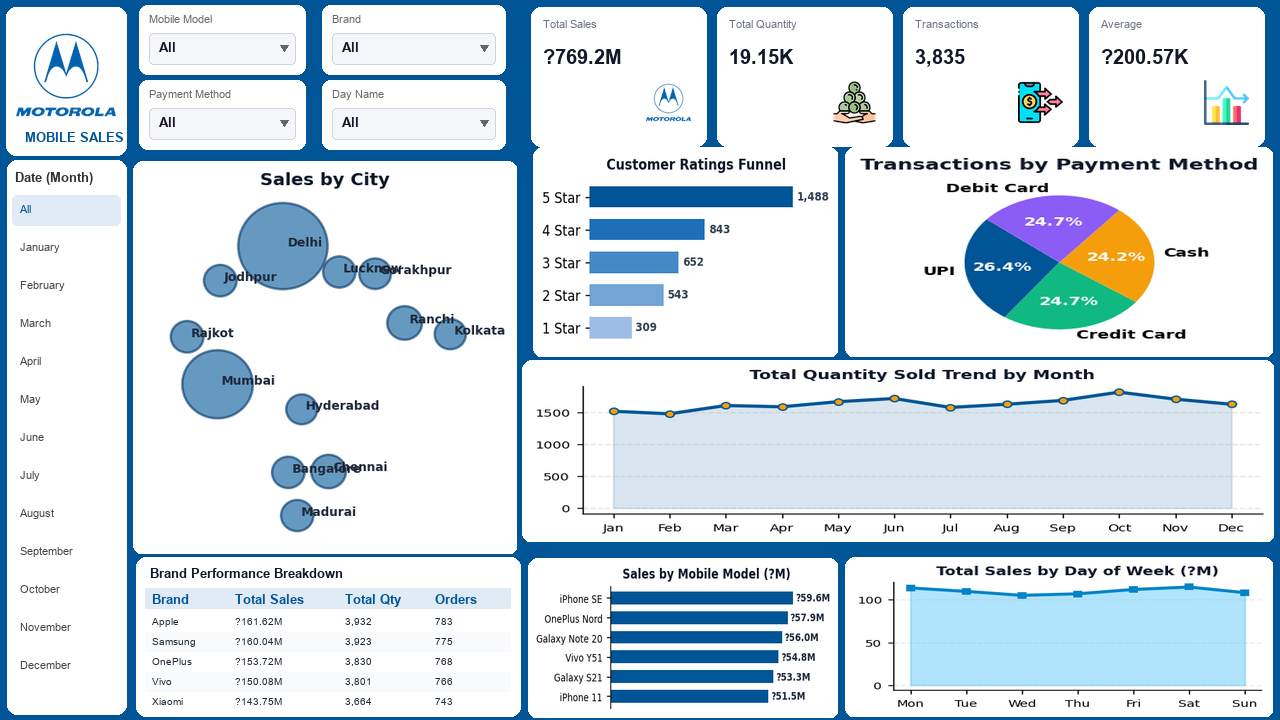
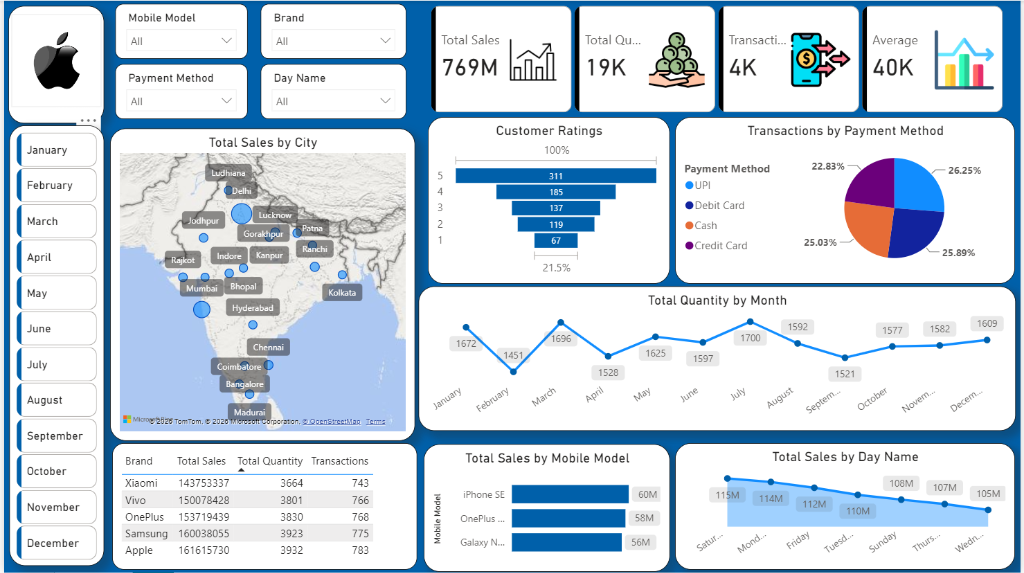
docs: replace dashboard screenshots with actual Power BI visuals and update README

diff --git a/README.md b/README.md
@@ -10,15 +10,15 @@
 
 ---
 
-## 🖥 Dashboard Preview
+## 🖥 Dashboard Overview (Full Report)
 
-![Mobile Sales Power BI Dashboard](assets/dashboard_overview.png)
+![Mobile Sales Power BI Dashboard - Full View](assets/dashboard_overview.png)
 
 ---
 
 ## 📌 Executive Summary & Key KPIs
 
-![KPI Metrics](assets/kpi_cards.png)
+![Executive KPI Cards](assets/kpi_cards.png)
 
 Across **3,835 transactions** recorded between **October 2021 and 2024**:
 
@@ -51,9 +51,11 @@ Across **3,835 transactions** recorded between **October 2021 and 2024**:
 
 ---
 
-## 📊 Dashboard Visualizations & Architecture
+## 📊 Dashboard Visualizations & Dynamic Cross-Filtering
 
-![Visual Analytics](assets/dashboard_visuals.png)
+![Interactive Visual Analytics & Monthly Cross-Filtering](assets/dashboard_visuals.png)
+
+*The dashboard supports dynamic cross-filtering (as demonstrated above when filtering by July), updating the geographical bubble map, ratings funnel, payment breakdown, and brand metrics in real time.*
 
 The Power BI report (`mobile sales dashboard.pbix`) is designed with a sleek dark-blue themed layout (`#0060AA`), visual hierarchy, and cross-filtering capabilities:
 
